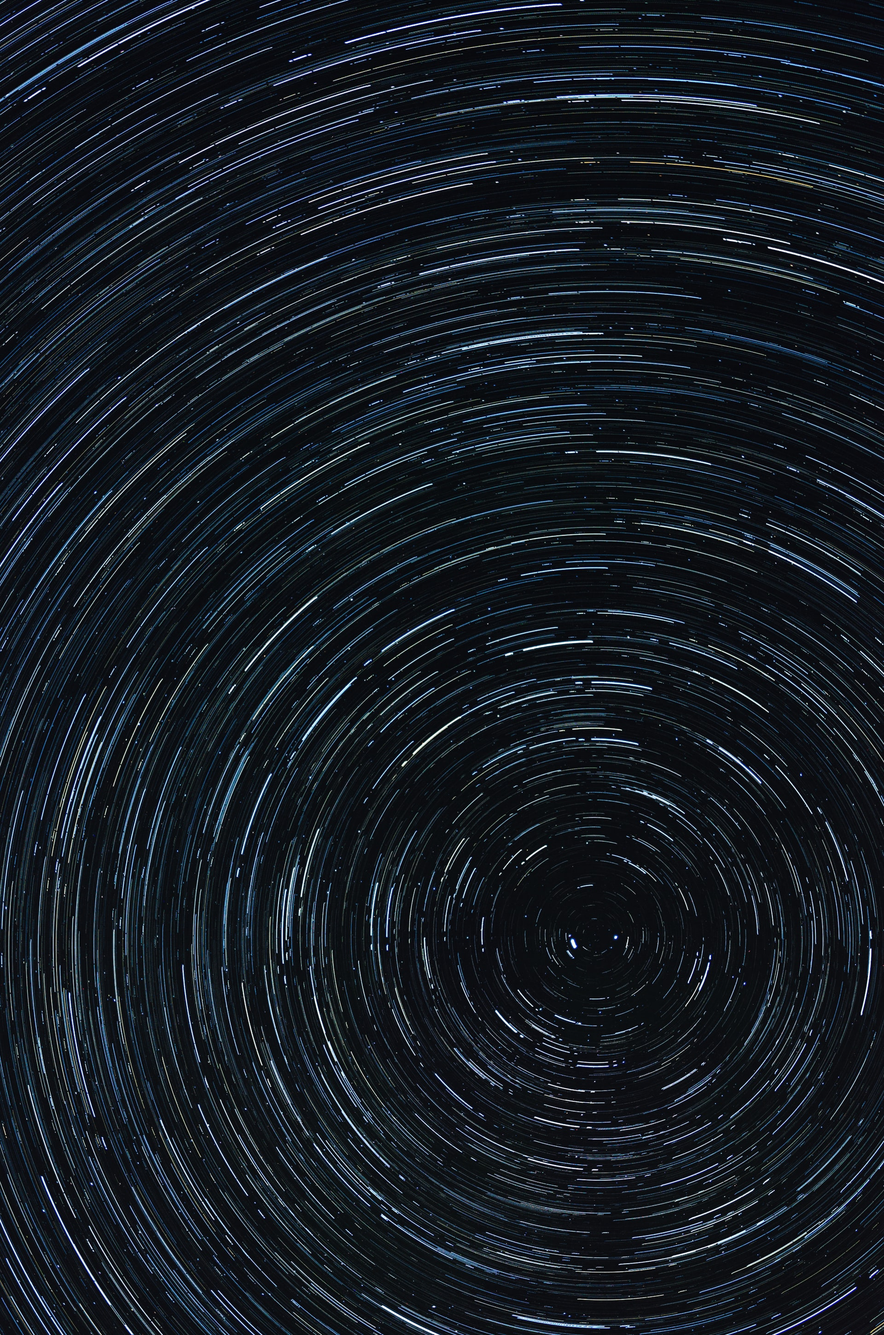
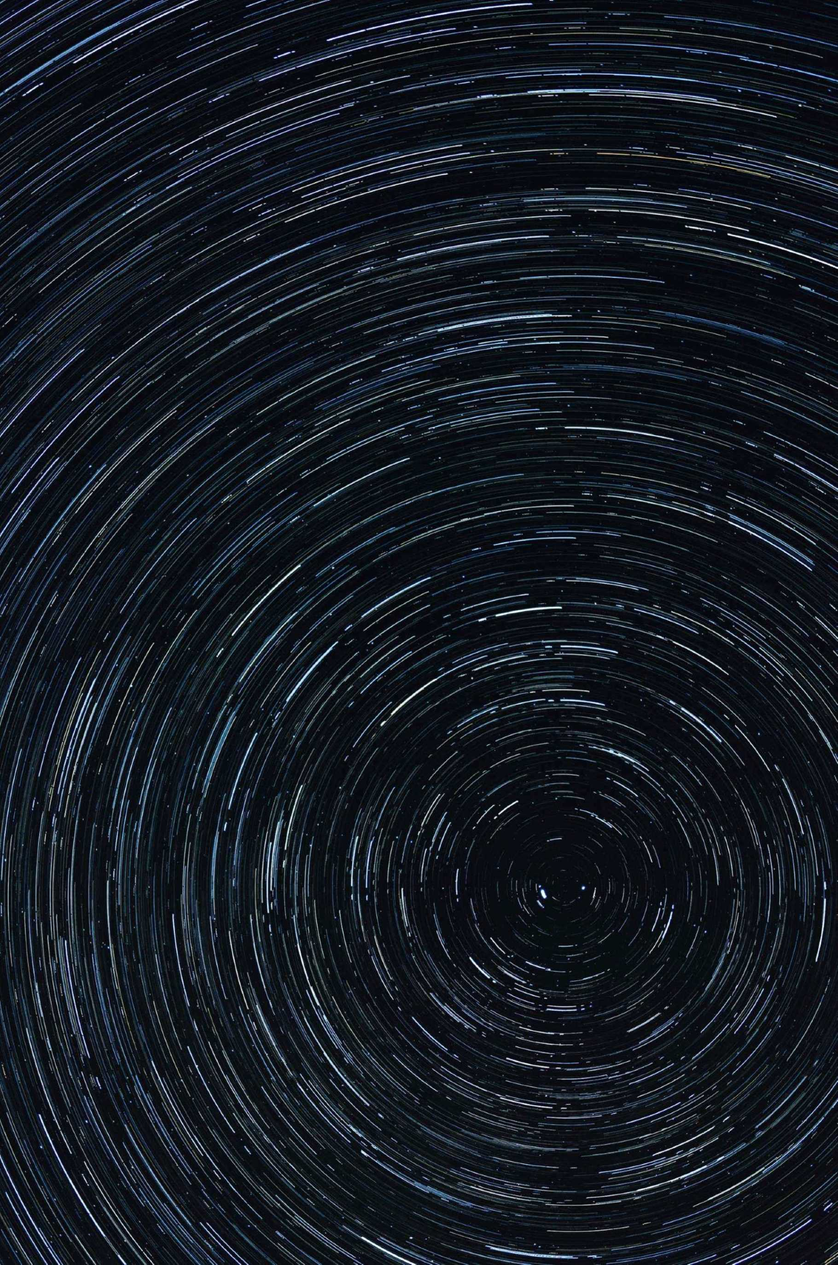
added key feauture to background image

diff --git a/public/src/screens.css b/public/src/screens.css
@@ -22,7 +22,7 @@
 /*Phones and Tablets in Landscape*/
 @media (orientation: landscape) and (max-width: 1007px){
     #side-image{
-        background-image: url("assets/background-2.jpg");
+        background-image: url("assets/background-2-small.jpg");
         background-attachment: fixed;
         background-repeat: no-repeat;
         width: 50%;
@@ -64,7 +64,7 @@
 /*Laptops*/
 @media (min-width: 1008px){
     #side-image{
-        background-image: url("assets/background-2.jpg");
+        background-image: url("assets/background-2-small.jpg");
         background-attachment: fixed;
         background-repeat: no-repeat;
         width: 50%;

diff --git a/public/src/index.js b/public/src/index.js
@@ -335,4 +335,12 @@ window.switchToP8 = function switchToP8(){
         getForm("registration/form8.html");
     }
 }
+
+var curImg = new Image();
+
+curImg.src = "src/assets/background-2.jpg";
+curImg.onload = function(){
+        // do whatever here, add it to the background, append the image ect.
+        document.getElementById("side-image").style.backgroundImage = "url('"+curImg.src+"')";  
+    }
 });
